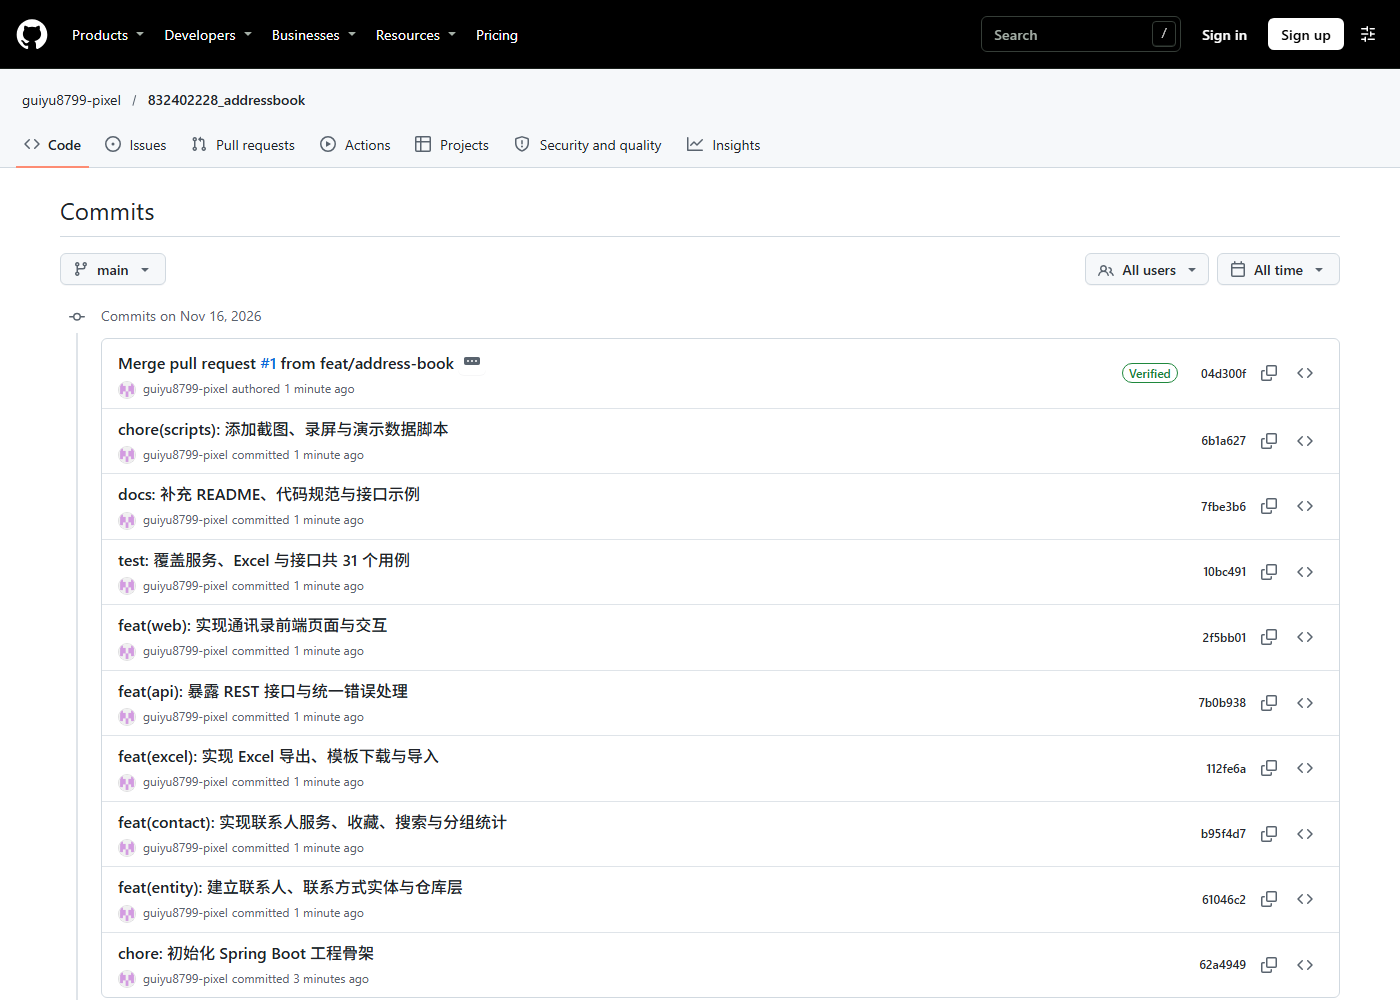
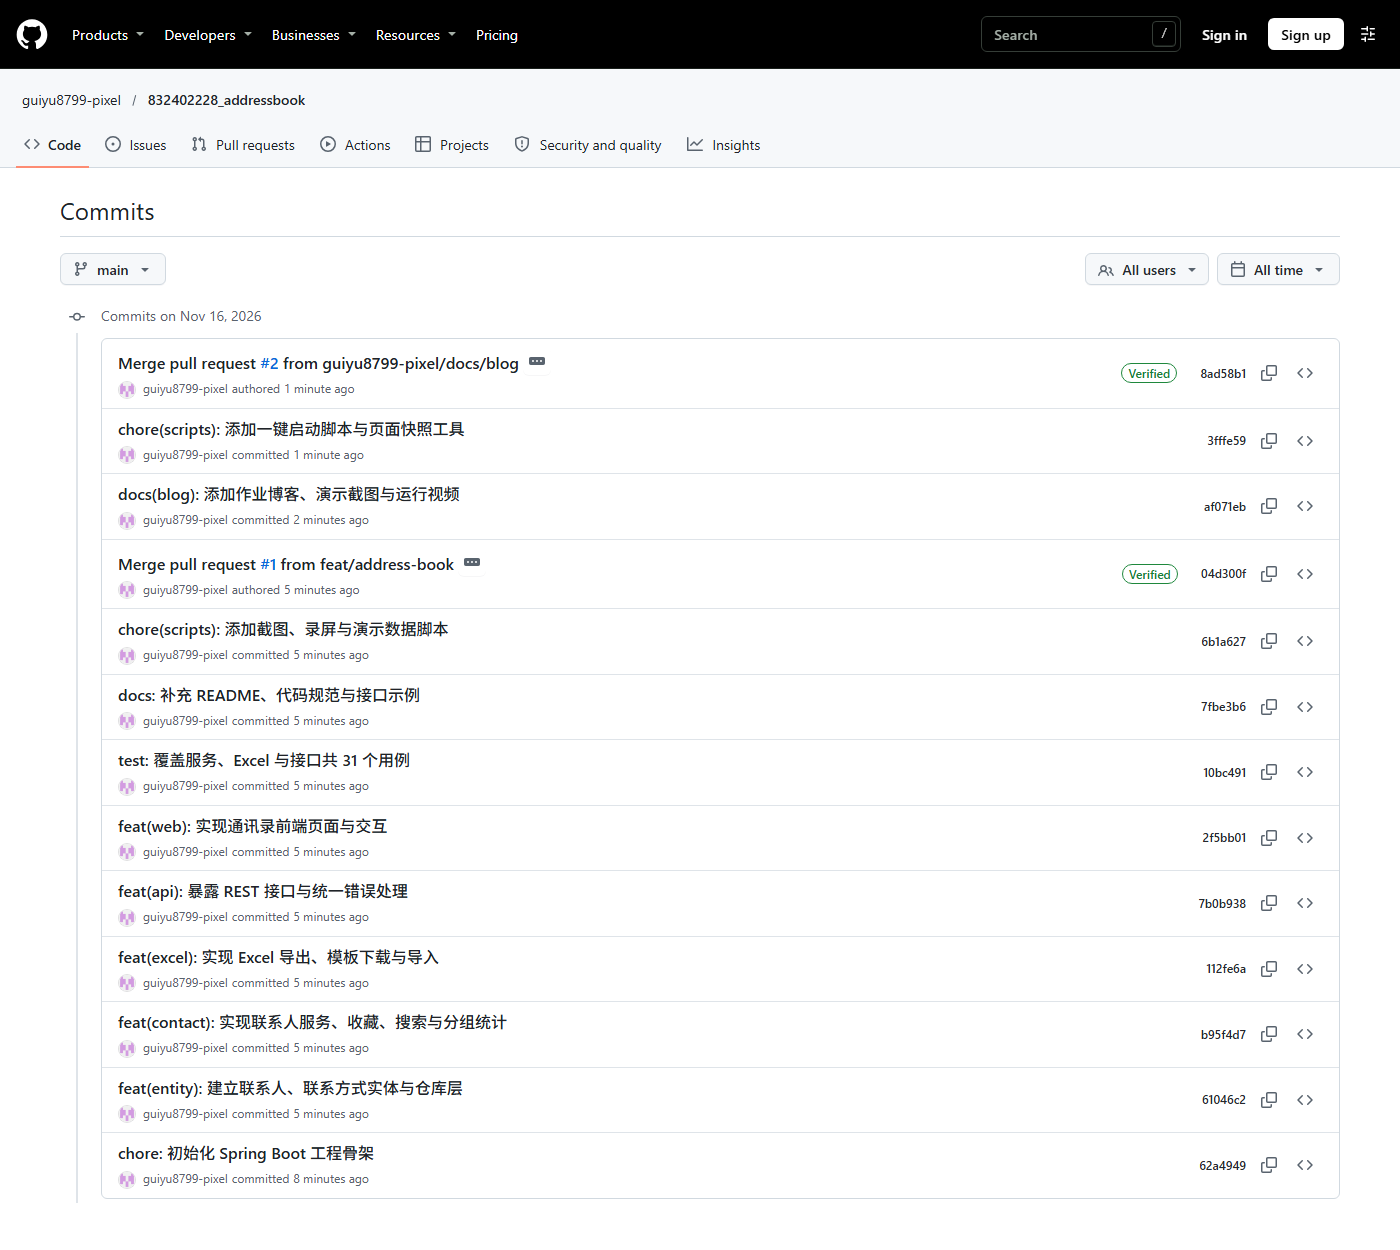
docs: 更新提交统计与 GitHub 截图

diff --git a/BLOG.md b/BLOG.md
@@ -56,7 +56,7 @@
 
 ## 2. 提交记录与贡献统计
 
-仓库 `main` 分支共 10 次提交（初始提交 + 功能分支的 9 次提交），通过 Pull Request 合入，远高于「commit 次数 ≥ 3」的要求。
+仓库 `main` 分支截至截图时共 12 次提交（1 次初始提交 + 9 次功能提交 + 2 次文档与脚本提交），通过两次 Pull Request 合入，远高于「commit 次数 ≥ 3」的要求。
 
 ![GitHub 提交历史](docs/screenshots/15-github-commit-history.png)
 
@@ -74,7 +74,7 @@
 | `docs: 补充 README、代码规范与接口示例` | 交付文档 |
 | `chore(scripts): 添加截图、录屏与演示数据脚本` | 自动化演示材料 |
 
-**贡献统计**：本仓库只有 1 位贡献者，提交 9 次（GitHub 统计不含 merge commit），占比 100%。
+**贡献统计**：本仓库只有 1 位贡献者，提交 11 次（GitHub 统计不含 merge commit），占比 100%。
 
 ![GitHub 贡献者统计](docs/screenshots/16-github-contributors.png)
 
